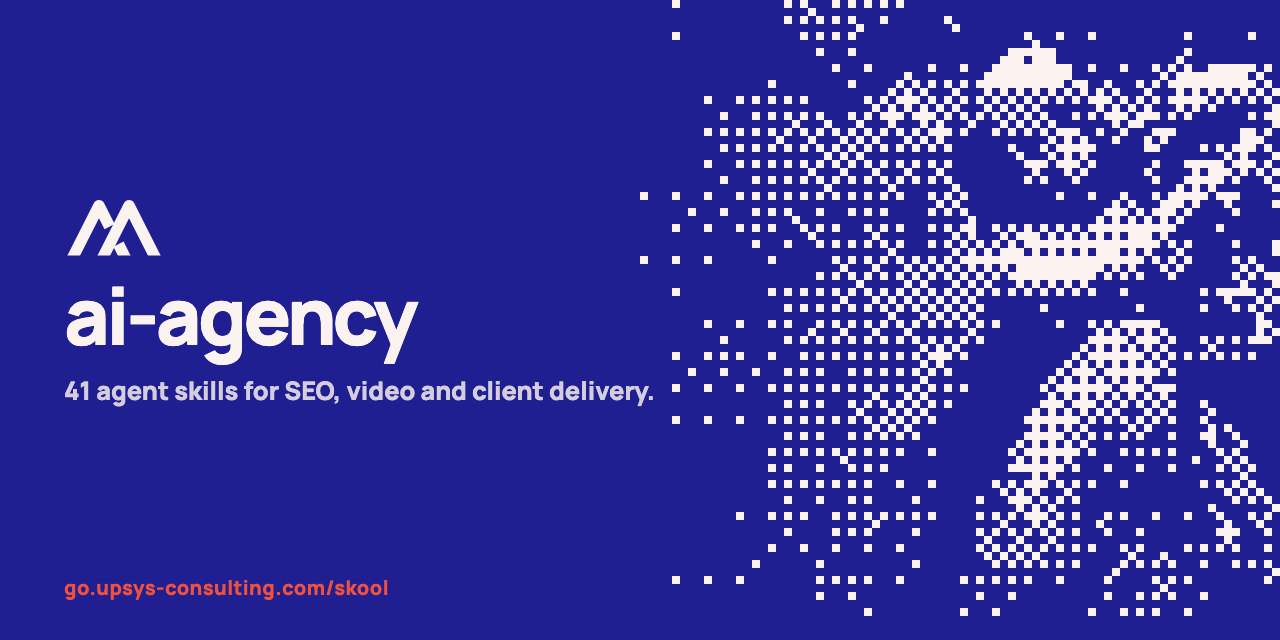
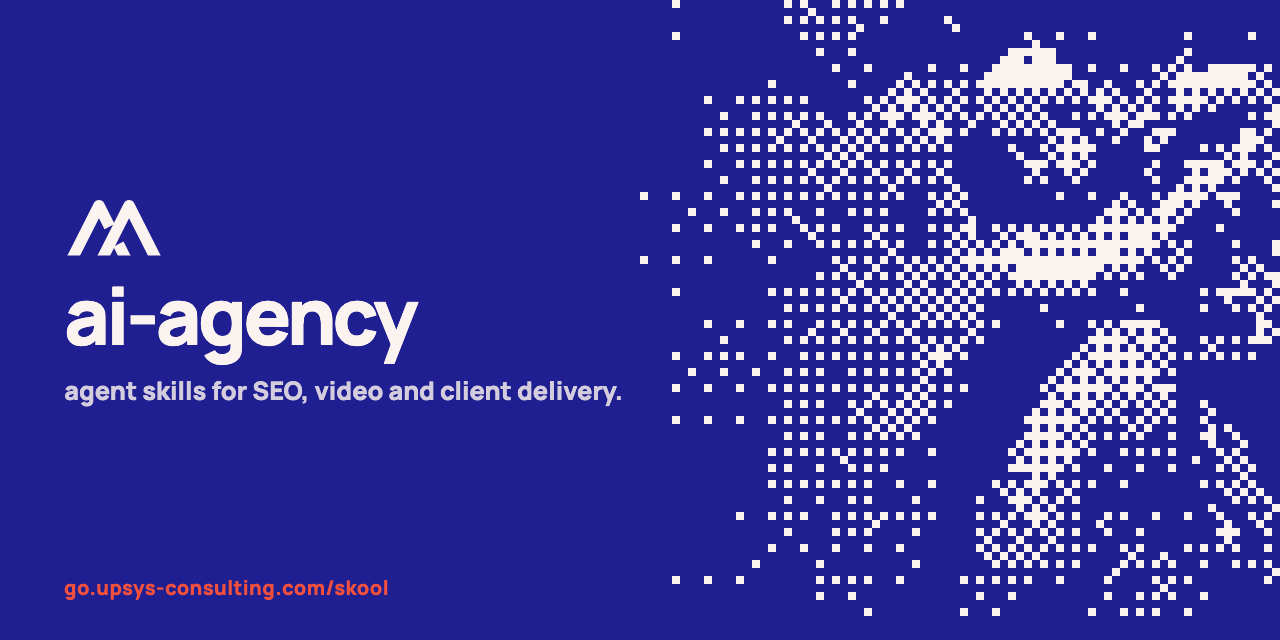
chore: republish from vibe-kit 74bc0ee7d: video-edit and motion-design, 18 skills

Changed region(s): [[0.0312, 0.5938, 0.5312, 0.6562]]

diff --git a/skills/editor-os/video-edit/references/projects-and-media.md b/skills/editor-os/video-edit/references/projects-and-media.md
@@ -1,6 +1,6 @@
-# Projects and media: organise, name, tracks, the bed
+# Projects and media: organise, name, tracks
 
-Open this for pass 0 (organise), pass 4 (music), pass 8 (handoff), before an import, and before touching Studio Sound. `pnpm descript --help` lists the verbs; this holds what it can't say. Credentials and the write model: [descript-cli.md](descript-cli.md).
+Open this for pass 0 (organise), pass 8 (handoff), before an import, and before touching Studio Sound. `pnpm descript --help` lists the verbs; this holds what it can't say. Credentials and the write model: [descript-cli.md](descript-cli.md).
 
 ## Verbs with a trap
 
@@ -8,9 +8,8 @@ Open this for pass 0 (organise), pass 4 (music), pass 8 (handoff), before an imp
 - `comp:` and `media:` say which panel. One name is often a composition and a mediaRef (Descript names a sequence after its composition); unprefixed, the pair is refused, not guessed.
 - Every write replays the whole commit graph, so 26 single renames is 26 replays: reorganise with one `batch` (key is `item`; a wrong key dies on op 1 as `undefined`).
 - `rm` refuses a live publish; `assets prune <project> --kind audio` is read only; `realign <project> <comp>` repairs "sortTiebreaker already used"; `card merge <pack> Camera <id>` deletes a card (its span joins the one before); `share <email> <id>,<id>` gives an editor Can edit with no drive seat; `room new "<title>" --start <ISO+offset> --end <ISO+offset>` schedules a Rooms recording and prints the join link (each run makes a new Room, and a calendar event isn't synced to it).
-- `comments <p> --todo` lists his open notes; `comment reply <p> <id> "..." --done` says it's placed. Never `comment resolve`: he ticks after checking.
+- `comments <p> --todo` lists his open notes, including one where his reply sits under yours; `comment reply <p> <id> "..." --done` says it's placed and prefixes 🤖, so every agent reply uses it. Never `comment resolve`: he ticks after checking. The loop runs until `comments` lists none (`motion-design/references/the-set.md`).
 - `track shift "CAM GS" --to CAM` puts the keyed twin on CAM's clock (the gate demands it); `track add <p> <seq> CAM --segments pieces.json` (`[{at, offset, seconds, media?}]`) lets one track span the takes of a joined sequence; `sequence new <p> "SEQ <code> · <Title>" --media <mic> --frame <screen>` gives a take with no sequence one; `gaps <p> <comp>` lists pauses longest first (`gaps close --over 1`); `cue` writes the keyframe behind Smart Zoom; `card copy`, `layer copy`, `layer paste` copy framing between cards.
-- `stock music search` prints only id, title and length (no mood or genre), so the query filters. `stock music pull <p> <id-or-title> [--as "Music/<name>"]` files a WAV under `Music/<title>` (a title 2 tracks share is refused: pass the id), puts nothing on a card (`music set --use "<title>"` does), and is a no-op on a track the project holds. It fetches 25 MB server side: allow 30 s. `--dry` prints the name.
 
 ## Pass 0: organise
 
@@ -38,23 +37,18 @@ Which track transcribes: only the microphone. The same words on lav, camera mic 
 
 Read the clock once with `layout cards <project> <comp>` at the top of pass 3, and take every `[mm-ss]` from it. A timecode from the raw take is meaningless because the line may be cut.
 
-## Layouts and the bed (pass 4)
+## Layouts
 
 Run `layout sync` before choosing a card, every time: he edits the packs, `layout seed` reports `alreadyHeld` and keeps the stale copy, and the manifest says what a card is FOR. A layout is a stamp with no link back to the pack, and a ladder splits on commas, so a card whose NAME holds one goes in by id. A camera layout needs a SEQUENCE, declared as its own `add_media` entry `tracks: [{media: "<key>"}]`. Read layers back after any screen stamp and take one off with `layer rm`: a `sceneId` naming a scene nothing draws locks the project out of its editor. A CLI-stamped composition publishes (8 Sep 2026: 48 cards and 21 pins, 4K in 14 minutes); pull a finished job with `descript job <id> --download`, never re-render.
 The pack list, the zoom ladder and the `--with` placeholder rule are on the layouts page in the studio.
 
 The screen's size is set per video, never taken from the pack. The presenter frames one card of each layout (PiP, big head) in the app and copies it (Cmd+C); `layer paste <p> <comp>` puts that framing on every card of the layout, once per layout. Read the sizes back (25 Sep 2026: PiP 0.90x0.53, big head 0.72x0.39 at x 0.39).
 
-One bed per channel, and pass 4 never lays it. The brand's music style answers it; a track a sibling project already uses wins a tie. `music set` writes **0.211, ducking on, `fillBehavior: loop`** (a 121 s bed under a 22-minute cut goes silent at 2:01 otherwise, 8 Sep 2026), the scene's own gain stays 1. A guard checking only `media &&` counts an empty `Placeholder` pin or a bare PNG as a bed; never clear one with `music rm` (it lifts the card's own pin).
+Pass 4, the music, is the `music` skill's, and the `music-scout` agent runs it.
 
-Pass 4 offers 3 options and moves on. `editor-os music` prints their answer to "what should your videos sound like?" and its search terms. Style `none` means no card: mark done with that as evidence. No answer yet: don't ask, offer one track from each of 3 fitting styles, and save no style they didn't say.
+Handoff, pass 8, background first, after every layout and pin is placed: `descript background <p> <comp>` deletes every `Brand Grid Dark` pin (by name or by file) and lays one fresh copy from 0:00 to the end, bottom of every card's stack, looped, in one commit. Camera cards need nothing: the full-frame camera sits above it. `--dry` prints `removed`, `cards` and `fill: loop`; `descript lint <p>` then reads blocking 0. By hand (C52, 12 Oct 2026, measured; it doesn't loop, so the 24 s file freezes on its last frame): `pin rm <p> <comp> --media "Brand Grid Dark"`, `layer rm <p> <comp> all "Brand Grid Dark"` for strays, `pin <p> <comp> --media "Brand Grid Dark.mov" --at 0:00 --cards <card count> --keep-cameras`, `layer set <p> <comp> all "Brand Grid Dark" --to -1`, `lint`.
 
-1. `stock music search "<term>" --json --full` per term, best first (`--full` keeps the `preview` link).
-2. Pick 3: at least 20 s (the loop covers the rest), a mood read from its title (no vocal, no jingle), each different from the others.
-3. `stock music pull` each into `Music/`, then `editor-os music offer <project> '[{"id","title","seconds","mood","preview"}]'` (mood in 1 or 2 words). Mark pass 4 done with the 3 titles, go to pass 5.
-4. Skip `music set`: `place` lays the one he keeps and nothing on a skip, and refuses until he decides. On `music.more` from `editor-os wait`, search the next terms and offer a new set (`asked` counts).
-
-Handoff, pass 8: `descript settings` reads every audio and look setting against its standard ([checks.md](checks.md)). Pulling a render to disk is only on his ask, after his pass: `export local` is the better master, `publish` when the browser must stay free ([descript-cli.md](descript-cli.md)).
+Then `descript settings` reads every audio and look setting against its standard ([checks.md](checks.md)). Pulling a render to disk is only on his ask, after his pass: `export local` is the better master, `publish` when the browser must stay free ([descript-cli.md](descript-cli.md)).
 
 ## Naming
 
@@ -135,4 +129,4 @@ A top-level area is `NN Name`: 2 digits, a space, a plain name. No emoji, no bra
 
 ## Done when
 
-`tracks` and `settings` read clean; `pnpm descript lint <project>` prints no naming warning; every `[mm-ss]` came from `layout cards`; `tree` shows each file under its intended name; one bed and `music <project>` reports it ducking; any composition touched was checked against `publishes`; any composition created carries the orientation the take was shot in.
+`tracks` and `settings` read clean; `pnpm descript lint <project>` prints no naming warning; every `[mm-ss]` came from `layout cards`; `tree` shows each file under its intended name; any composition touched was checked against `publishes`; any composition created carries the orientation the take was shot in.

diff --git a/skills/editor-os/video-edit/references/sequencing.md b/skills/editor-os/video-edit/references/sequencing.md
@@ -124,11 +124,11 @@ Run `editor-os layout sync --check` before you pick a layout. Drift means the la
 Descript: report it, and don't pick from a stale pack.
 
 A new file doesn't change the page. An `N ... alpha.mov` beside `N ....mp4` only adds an option;
-the pick, plan slot and `.drafts/` draft stay on the old clip until
+the pick, plan slot and `.drafts/<beat>.mp4` clip stay on the old clip until
 `editor-os pick <name> <beat id> "<file>"`. A clip with no beat of its own (an overlay beside a step
 label) goes in with `editor-os overlay <name> --file "<file>" --at "<first words>" [--until "<last words>"] [--layout "<layout>" [--zoom 1.12] [--then "<layout>"]] [--note n18]`: it
 anchors on words, never a timecode, and a phrase may cross a paragraph. `--layout` makes the whole pair in the same save: the clip's first word gets that layout (zoom 1 unless `--zoom`) and where the card starts to leave the layout goes back to what it was, or to `--then`. Don't run `layout --at` after it. That is also the proof for pass 5 and 6 when the clip has no beat of its own. A scene's look changes with
-`editor-os layout <name> <second> | --at "<first words>" ["<layout>"] [--zoom 1.12] [--text "<line>"...]`, any layout in the pack. A second within 0.25s of a scene's start sets that scene. A second inside a scene splits it at the nearest word start (a phrase break within 1s wins, a second clear of each edge), except at an overlay's enter or leave, which it lands on exactly; on the same layout the split punches in or out, so a hold past 6s gets a change without a hand edit (`cutcheck` flags one, and `layout <name> --fix-holds` makes every split it names in one save, alternating zoom 1 and 1.12). `--text` fills a Title card and clears itself on a layout that draws none. A layout and its overlay enter and exit together: the overlay pulls its layout onto its first word and the next layout onto where the card starts to leave, and keeps both through a re-cut. `cutcheck` fails a pair that drifted at either end, and a clip that draws inside the caption box. Two clips that overlap (an opaque one still on screen when the next starts) can't pass that edge check: trim one with `overlay --until`, don't move layout times. After any clip change, open the draft and look.
+`editor-os layout <name> <second> | --at "<first words>" ["<layout>"] [--zoom 1.12] [--text "<line>"...]`, any layout in the pack. A second within 0.25s of a scene's start sets that scene. A second inside a scene splits it at the nearest word start (a phrase break within 1s wins, a second clear of each edge), except at an overlay's enter or leave, which it lands on exactly; on the same layout the split punches in or out, so a hold past 6s gets a change without a hand edit (`cutcheck` flags one, and `layout <name> --fix-holds` makes every split it names in one save, alternating zoom 1 and 1.12; it never splits inside a clip, so a hold that is one long clip stays and is named: shorten that clip with `overlay --until`). `--text` fills a Title card and clears itself on a layout that draws none. A layout and its overlay enter and exit together: the overlay pulls its layout onto its first word and the next layout onto where the card starts to leave, and keeps both through a re-cut. `cutcheck` fails a pair that drifted at either end, and a clip that draws inside the caption box. 2 clips that overlap (an opaque one still on screen when the next starts) can't pass that edge check: trim one with `overlay --until`, don't move layout times. After any clip change, open the preview and look.
 
 Text and marks are alpha. A beat of only words or a light diagram is an ARGB `.mov` with nothing
 behind it (`motion-design`). Check by compositing frames over

diff --git a/skills/editor-os/video-edit/SKILL.md b/skills/editor-os/video-edit/SKILL.md
@@ -9,7 +9,7 @@ lane: general
 
 A take becomes a finished cut in 9 passes, 0 to 8, each timed against the one before. Out of order, you build motion for a frame that's about to move or lay a bed before the cut ends where it will stay.
 
-Read `RUN.json` first. Its `format` picks the format file: [shorts.md](references/shorts.md) for `vertical`, [long-form.md](references/long-form.md) for `wide`. Its `route` is `local` (the take on disk, every Short today) or `descript`. On the local route, close each pass on the proof `next` names (the take folder, `cut short`, `cut check`, `check.txt`, `music offer`, `pick` plus the alpha check, `plan`, `cut final`), never a Descript command or `--anyway`. Its verbs: `retime`, `keep` and `tighten` in [cutting.md](references/cutting.md#the-local-route-cuts), `verify` and `cutcheck` in [checks.md](references/checks.md#the-local-cut-checks), `pick`, `overlay` and `layout` in [sequencing.md](references/sequencing.md#clips-and-layouts-on-the-local-route).
+Read `RUN.json` first. Its `format` picks the format file: [shorts.md](references/shorts.md) for `vertical`, [long-form.md](references/long-form.md) for `wide`. Its `route` is `local` (the take on disk, every Short today) or `descript`. On the local route, close each pass on the proof `next` names (the take folder, `cut short`, `cut check`, `check.txt`, `music offer`, `pick` plus the alpha check, `plan`, `cut final`), never a Descript command or `--anyway`. Its verbs: `retime`, `keep` and `tighten` in [cutting.md](references/cutting.md#the-local-route-cuts), `verify`, `cutcheck` and `final` in [checks.md](references/checks.md#the-local-cut-checks), `pick`, `overlay` and `layout` in [sequencing.md](references/sequencing.md#clips-and-layouts-on-the-local-route).
 
 ## Rules for every pass
 
@@ -48,11 +48,11 @@ Siblings: `social` (`references/shorts-production.md` for encoding, Drive, Click
 | 1 | coach, then cut | [cutting.md](references/cutting.md) (coach runs first, so the raw take still exists) | script reads with no retake or false start left |
 | 2 | reorder, chapters | `cutting.md` (`arrange.py`, then a marker per section) | markers land, chapters read right |
 | 3 | rhythm, layouts | [sequencing.md](references/sequencing.md), the layouts page in the studio (`sequence.py`, then `layout pace` and `layout apply`) | `layout cards` shows a card per beat |
-| 4 | music | `projects-and-media.md` (3 options from Descript Stock, he keeps one) | `music offer` answered, no bed laid |
+| 4 | music | `music` (the `music-scout` agent: 3 options from Descript Stock, he keeps one) | `music offer` answered, no bed laid |
 | 5 | motion | `motion-design` | every clip rendered, watched, in Editor OS review |
 | 6 | broll | `broll` | sourced, imported, in Editor OS review |
 | 7 | review | `sequencing.md` (`editor-os transcript`, `plan`, `wait`) | he decided the open beats and the music; `edit.json` holds his choices |
-| 8 | handoff | `projects-and-media.md` (`descript settings`) | settings clean, project left for his pass |
+| 8 | handoff | `projects-and-media.md` (`descript background`, then `descript settings`) | one grid under the whole video, settings clean, project left for his pass |
 
 A Short never coaches, reorders or chapters.
 

diff --git a/skills/editor-os/video-edit/references/checks.md b/skills/editor-os/video-edit/references/checks.md
@@ -63,15 +63,16 @@ W1 to W7 read straight off the doctrine verdicts so the score can't disagree wit
 
 - `editor-os verify <name>` transcribes what the render plays and flags a repeated line, a long pause
   or a Short over length. Run it before you say a cut is clean. It's the only check word times can't fool.
-- `editor-os cutcheck <name>` waits for the draft and the check the studio runs on it after every
-  render: speech with no words, a pop, a cut inside a word, length, and loudness on a final. It also
+- `editor-os cutcheck <name>` waits for the preview (`cut.review.mp4`) and the check the studio runs
+  on it after every render: speech with no words, a pop and a cut inside a word. Length and loudness
+  are checked on the final only (`editor-os final <name> [--wait]`, to `cut.mp4`). It also
   fails on what the shelf shows from edit.json alone (a layout and its overlay apart, a scene held past
   6s, a hook title on a layout that draws none or a Title scene under 1s), so a PASS means the shelf
-  is clean. It blocks while the draft renders, up to 15 minutes, so don't poll it. Every run saves
+  is clean. It blocks while the preview renders, up to 15 minutes, so don't poll it. A run saves
   `.check/frames.png`, a frame at 0.5s and at each scene and overlay: open it every time. Each
   failing cut also gets a filmstrip PNG for a visual jump or a hidden caption, which no number
   catches. Fix, save once, and check again. After 3 tries that still fail, stop and tell the person
-  which cuts and why, in plain words. They only polish, so they never see a draft that failed.
+  which cuts and why, in plain words. They only polish, so they never see a preview that failed.
 
 ## The export gate
 
@@ -113,7 +114,7 @@ pnpm descript studio <p> <track|media> --on --intensity 0.5      # Studio Sound
 pnpm descript gaps close <p> <comp> --over 0.7 --keep 0.3 --edges
 pnpm descript layer effect <p> <comp> <card> <layer> uplighting --value "[0.1,0.5,0,0.05,-0.05,0]"
 pnpm descript layer copy <p> <comp> <card> <layer> --to all      # one look onto every card
-pnpm descript layer set <p> <comp> <card> <layer> --to 0         # stack position, 0 is top
+pnpm descript layer set <p> <comp> <card|all> <layer> --to 0     # stack position, 0 is top, -1 the bottom
 pnpm descript layer sweep <p> <comp>                             # hidden duplicate cameras
 pnpm descript resize <p> <comp> 1920x1080
 pnpm descript track mute <p> <track>                             # leave one live track

diff --git a/README.md b/README.md
@@ -2,7 +2,7 @@
 
 # ai-agency
 
-**19 agent skills for Claude**, plus 6 slash commands and an agent, built for the 3 jobs an
+**18 agent skills for Claude**, plus 6 slash commands and an agent, built for the 3 jobs an
 agency repeats every week: getting found in search, making video, and delivering client work.
 One more, `ai-manager`, stops the rest of the shelf from rotting as you add to it.
 
@@ -81,7 +81,6 @@ In the order you make a video, from the first line of the hook to the posts you 
 | [motion-design](skills/editor-os/motion-design) | Remotion clips, figures, captions and CTAs for anything that isn't your face |
 | [youtube-ctas](skills/video/youtube-ctas) | Transparent 1920x1080 overlays: subscribe, like, lower third, end screen |
 | [whiteboard](skills/design/whiteboard) | The board a video talks over: tldraw, a compiled still, or Excalidraw live on the iPad |
-| [whiteboard](skills/video/whiteboard) | The Excalidraw engine itself, boards written as TypeScript in `tool/` and drawn onto the iPad on camera |
 | [ai-video-prompting](skills/video/ai-video-prompting) | Prompts for Veo, Kling, Seedance and the rest, plus the shot list behind them |
 | [youtube-thumbnail](skills/design/youtube-thumbnail) | The thumbnail, from a measurement you run on your own niche, then a render |
 | [shorts-production](skills/video/shorts-production) | A finished Short taken to a scheduled, coded task, with the export shipped untouched |
@@ -90,9 +89,7 @@ In the order you make a video, from the first line of the hook to the posts you 
 A few need more than a terminal. `motion-design` and `youtube-ctas` render through
 [Remotion](https://remotion.dev). `youtube-thumbnail` renders with
 [`scripts/render.mjs`](skills/design/youtube-thumbnail/scripts/render.mjs), which wants a Gemini
-API key or a gateway. The `whiteboard` engine in [`skills/video/whiteboard/tool`](skills/video/whiteboard/tool)
-is the one thing here with an install step, `pnpm install` once, because Excalidraw's live protocol
-is socket.io.
+API key or a gateway.
 
 ### Client delivery
 
@@ -216,7 +213,7 @@ the posts are content work, so they file under `design` and `content` and still 
 order above.
 
 A skill carries its own references and a dependency-free script, so it works on a fresh clone
-with Node 20 or later and nothing installed. The `whiteboard` engine is the 1 exception.
+with Node 20 or later and nothing installed.
 
 Check your fork with the same tools:
 

diff --git a/skills/editor-os/video-edit/references/shorts.md b/skills/editor-os/video-edit/references/shorts.md
@@ -5,6 +5,13 @@ Read this when `RUN.json` says `format: vertical`. The local route is the main p
 (`retime`, `keep`, `tighten`, `title`, `layout`, `overlay`, `pick`). The trunk rules in `SKILL.md`
 still hold. This file only adds what a Short does differently.
 
+
+## The cast
+
+Every clip is made by its own worker, so the brief names who appears and in which colour once. `BRIEF.md` carries a
+`## The cast` section with one line, like "Ana is blue, Marc is orange, Lea is green." Write it before the first clip
+is briefed, and put it in every clip's brief. `cut check` warns when a Short has 2 clips or more and no cast line.
+
 ## The hook title
 
 The opening card has a small line, a BIG line and a small line. They name the video's idea (the topic, the
@@ -21,6 +28,9 @@ A Short draws from 7 cards in the pack: `Shorts Title`, `Shorts Head`, `Shorts B
 `job` line under each card. Pick by that line, and never invent a layout or its geometry. The verbs and
 the sync check: [sequencing.md](sequencing.md#clips-and-layouts-on-the-local-route).
 
+- `Shorts Split` is for a real screen recording, and it frames the camera from the face it measures (the render
+  does it, once per take), so the caption never sits on the forehead. A clip over the head goes on `Shorts Bottom`,
+  because Split has no Media slot.
 - `Shorts Bottom` shows the whole head, with the caption above the hat. An overlay on it keeps its
   content above the caption band: `overlay` prints that line, and `cutcheck` and every render fail a
   clip that fills the band. A Bottom layout a word early left an empty slot, so the pair moves together.
